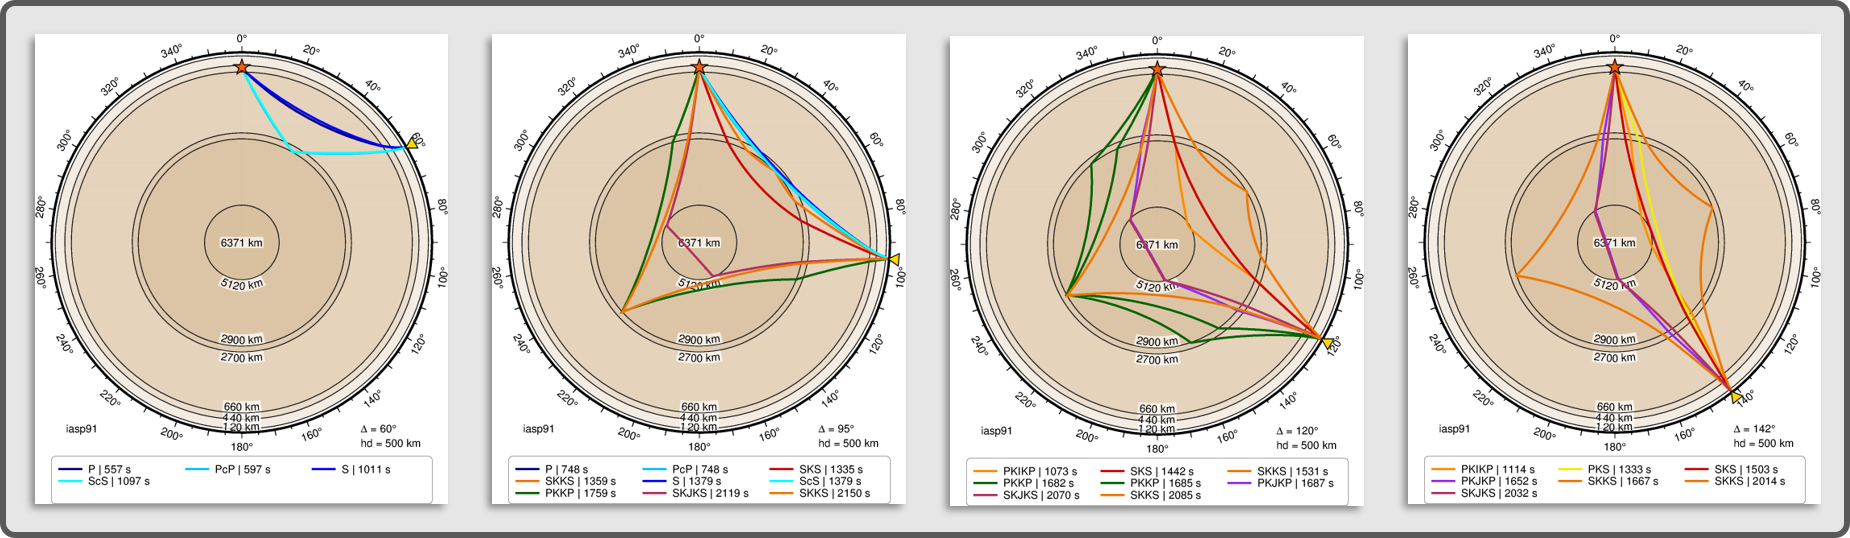
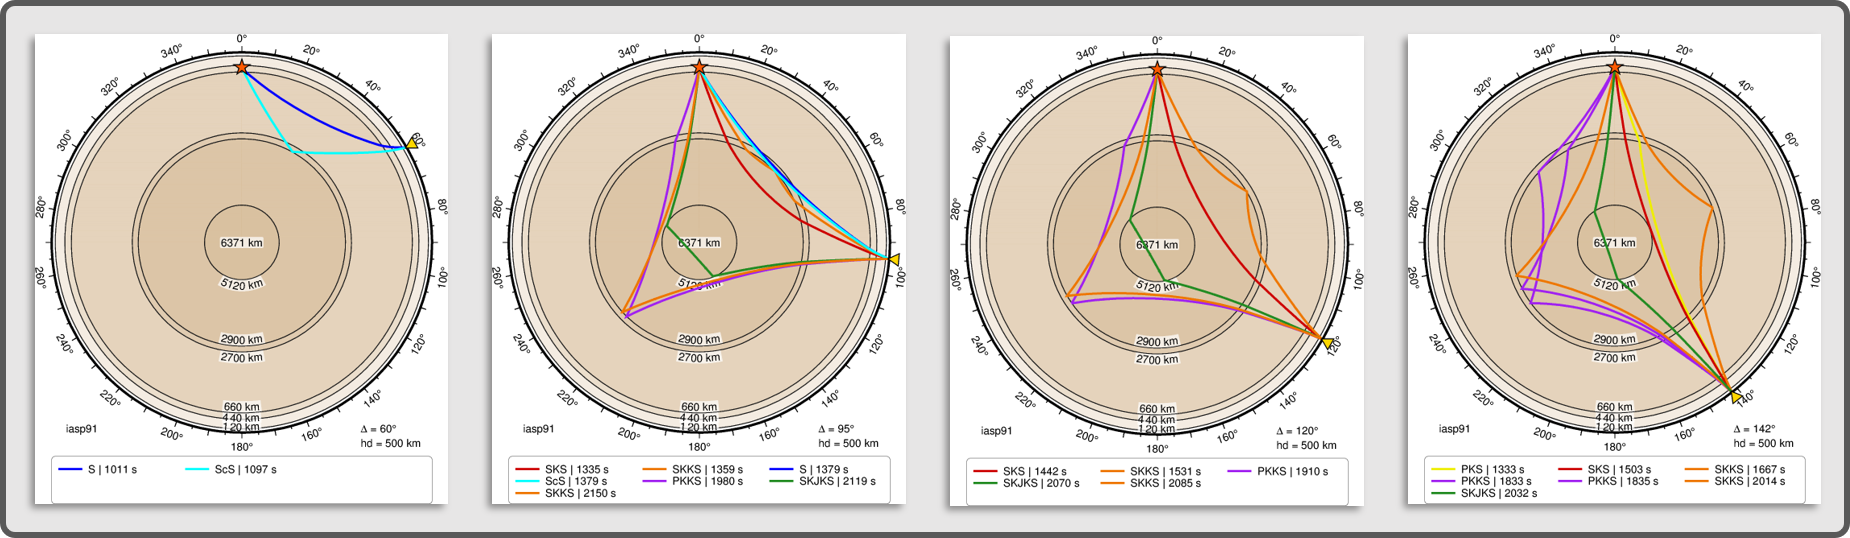
taup: Adjust colors for phases (#17)

diff --git a/003_taup/01_travel_path/taup_path.py b/003_taup/01_travel_path/taup_path.py
@@ -99,18 +99,18 @@ def taup_path(
     # Adjust and extend for your needs
     phase_colors = {
         "P": "0/0/128",  # GMT navyblue
-        "S": "0/0/255",  # GMT blue
         "PcP": "0/191/255",  # GMT deepskyblue
+        "S": "0/0/255",  # GMT blue
         "ScS": "0/255/255",  # GMT cyan
-        "SKS": "205/0/0",  # GMT red3
-        "SKKS": "238/118/0",  # GMT darkorange2
         "PKS": "238/238/0",  # GMT yellow2
         "PKKS": "160/32/240",  # GMT purple
-        "PKKP": "0/100/0",  # GMT darkgreen
-        "PKIKP": "255/140/0",  # GMT darkorange
-        "PKJKP": "145/44/238",  # GMT purple2
-        "SKJKS": "176/48/96",  # GMT maroon
-        "PKPPKP": "255/255/0",  # GMT yellow
+        "SKS": "205/0/0",  # GMT red3
+        "SKKS": "238/118/0",  # GMT darkorange2
+        "PKKP": "139/125/107",  # GMT bisque4
+        "PKPPKP": "188/143/143",  # GMT rosybrown
+        "PKIKP": "127/255/0",  # GMT chartreuse1
+        "PKJKP": "50/205/50",  # GMT limegreen
+        "SKJKS": "34/139/34",  # GMT forestgreen
     }
 
     # %%

diff --git a/004_earthquakes_eruptions/06_japan/taup_path.py b/004_earthquakes_eruptions/06_japan/taup_path.py
@@ -99,18 +99,18 @@ def taup_path(
     # Adjust and extend for your needs
     phase_colors = {
         "P": "0/0/128",  # GMT navyblue
-        "S": "0/0/255",  # GMT blue
         "PcP": "0/191/255",  # GMT deepskyblue
+        "S": "0/0/255",  # GMT blue
         "ScS": "0/255/255",  # GMT cyan
-        "SKS": "205/0/0",  # GMT red3
-        "SKKS": "238/118/0",  # GMT darkorange2
         "PKS": "238/238/0",  # GMT yellow2
         "PKKS": "160/32/240",  # GMT purple
-        "PKKP": "0/100/0",  # GMT darkgreen
-        "PKIKP": "255/140/0",  # GMT darkorange
-        "PKJKP": "145/44/238",  # GMT purple2
-        "SKJKS": "176/48/96",  # GMT maroon
-        "PKPPKP": "255/255/0",  # GMT yellow
+        "SKS": "205/0/0",  # GMT red3
+        "SKKS": "238/118/0",  # GMT darkorange2
+        "PKKP": "139/125/107",  # GMT bisque4
+        "PKPPKP": "188/143/143",  # GMT rosybrown
+        "PKIKP": "127/255/0",  # GMT chartreuse1
+        "PKJKP": "50/205/50",  # GMT limegreen
+        "SKJKS": "34/139/34",  # GMT forestgreen
     }
 
     # %%

diff --git a/004_earthquakes_eruptions/07_taiwan/taup_path.py b/004_earthquakes_eruptions/07_taiwan/taup_path.py
@@ -99,18 +99,18 @@ def taup_path(
     # Adjust and extend for your needs
     phase_colors = {
         "P": "0/0/128",  # GMT navyblue
-        "S": "0/0/255",  # GMT blue
         "PcP": "0/191/255",  # GMT deepskyblue
+        "S": "0/0/255",  # GMT blue
         "ScS": "0/255/255",  # GMT cyan
-        "SKS": "205/0/0",  # GMT red3
-        "SKKS": "238/118/0",  # GMT darkorange2
         "PKS": "238/238/0",  # GMT yellow2
         "PKKS": "160/32/240",  # GMT purple
-        "PKKP": "0/100/0",  # GMT darkgreen
-        "PKIKP": "255/140/0",  # GMT darkorange
-        "PKJKP": "145/44/238",  # GMT purple2
-        "SKJKS": "176/48/96",  # GMT maroon
-        "PKPPKP": "255/255/0",  # GMT yellow
+        "SKS": "205/0/0",  # GMT red3
+        "SKKS": "238/118/0",  # GMT darkorange2
+        "PKKP": "139/125/107",  # GMT bisque4
+        "PKPPKP": "188/143/143",  # GMT rosybrown
+        "PKIKP": "127/255/0",  # GMT chartreuse1
+        "PKJKP": "50/205/50",  # GMT limegreen
+        "SKJKS": "34/139/34",  # GMT forestgreen
     }
 
     # %%
